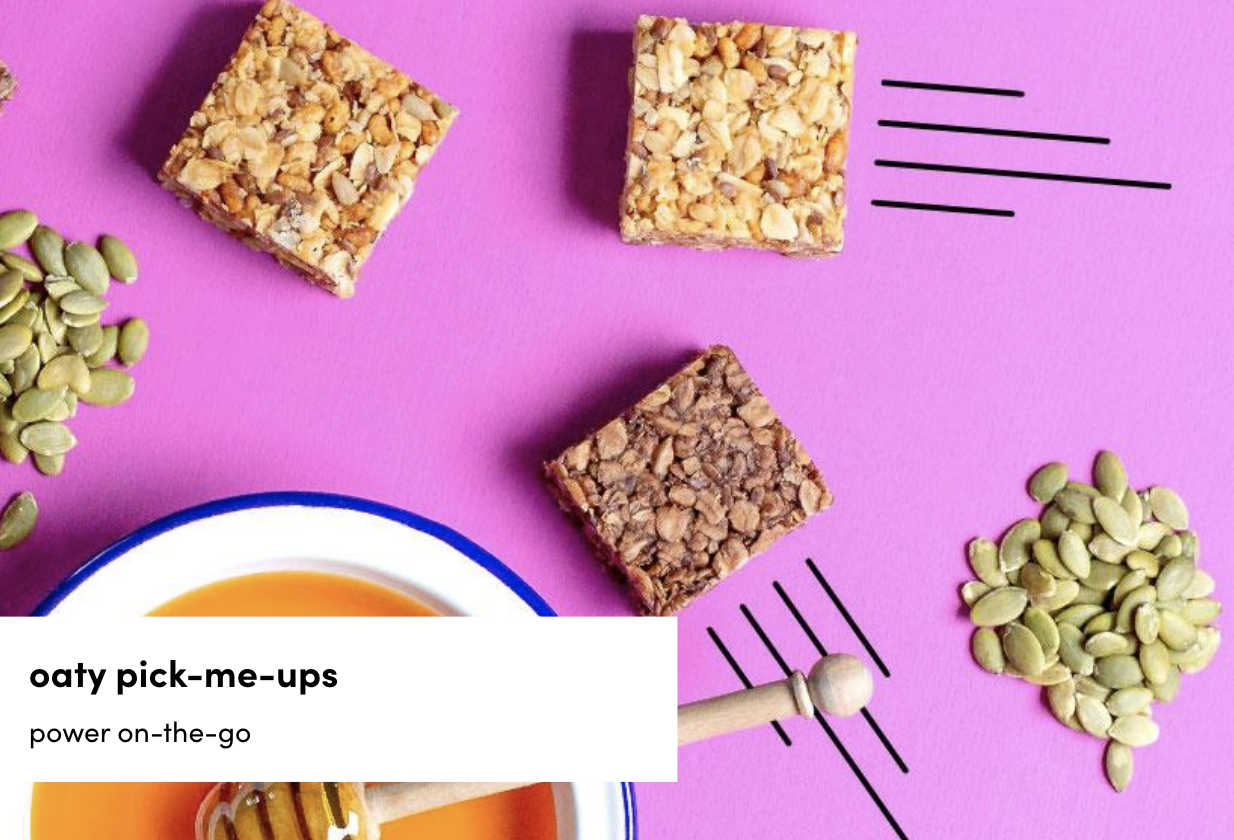
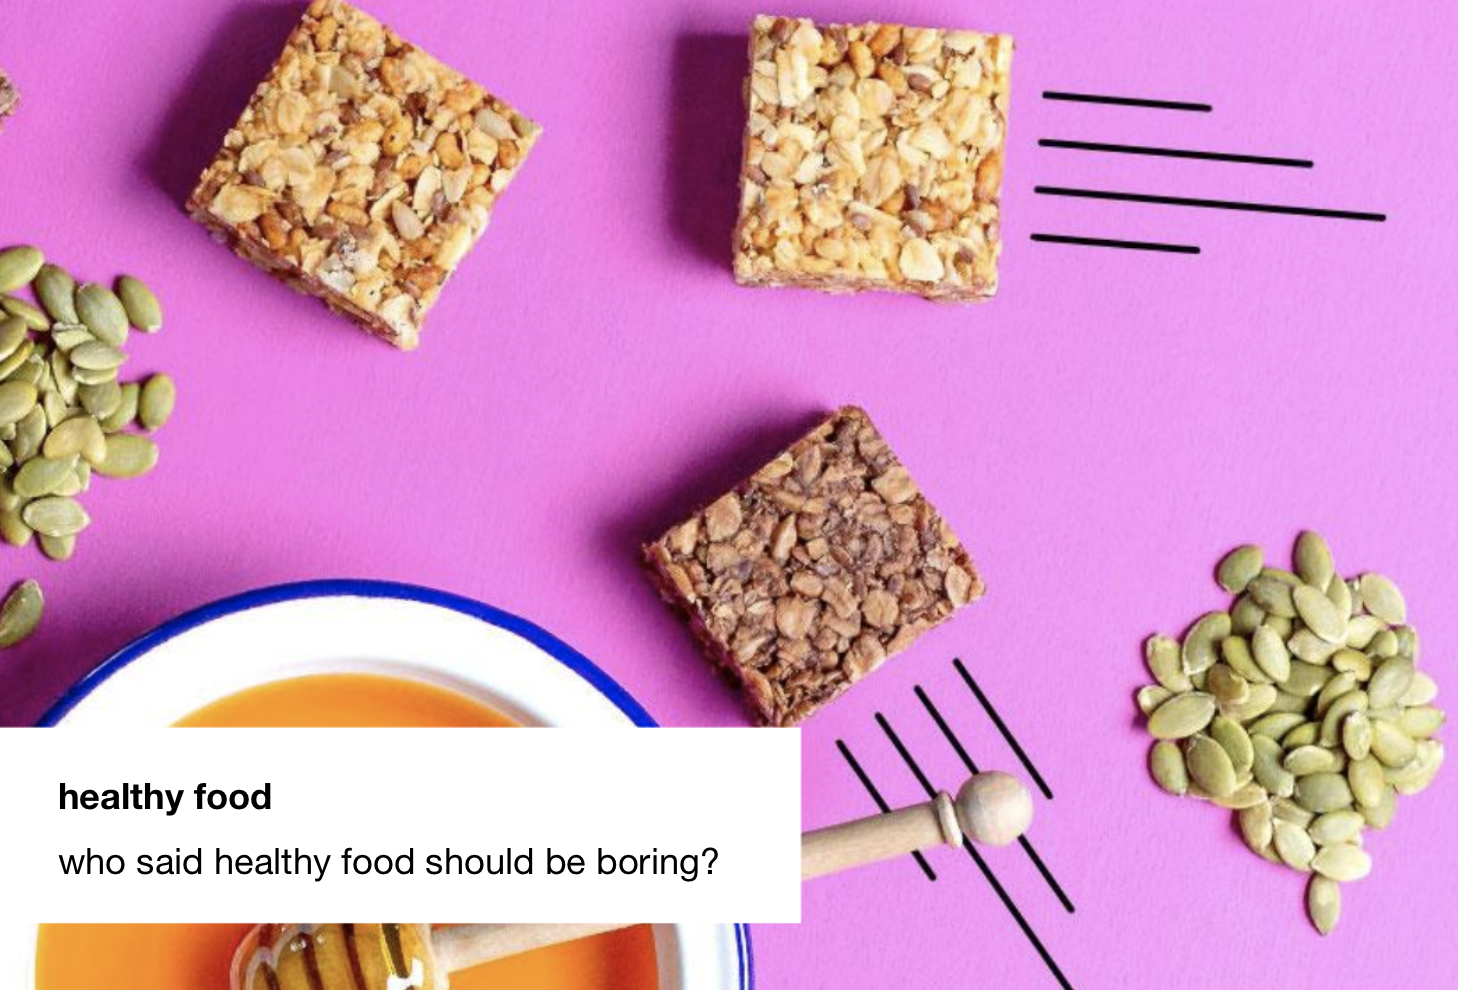
changed cat pics and dynamic border

diff --git a/RedApron/RedApronAngular/src/app/browse/category-main/category-main.component.ts b/RedApron/RedApronAngular/src/app/browse/category-main/category-main.component.ts
@@ -17,33 +17,43 @@ export class CategoryMainComponent implements OnInit {
   recipeNums: number[] = [];
   recipes: Recipe[] = [];
   message:number
+  cat: string
 
 
   constructor(private categoryService: CategoryService, private recipeService: RecipeService,public sharingService: SharingServiceService) { }
 
   ngOnInit() {
     console.log("*********** PARENT MAIN : is not from child " + this.sharingService.getData().isGeneral )
-    if (this.sharingService.getData().isGeneral) { //IS GENERAL
       this.categoriesBrowsing = this.sharingService.getData().categories
       var temp = this.categoriesBrowsing[0].name.split(" ")[0]
       if (temp == "Healthy") {
         this.categoryBrowsing = "Healthy"
+        this.cat = "cat1.png"
       } else if (temp == "Quick") {
         this.categoryBrowsing = "Quick & Easy"
+        this.cat = "cat2.png"
       }else if (temp == "Vegetarian") {
         this.categoryBrowsing = "Vegetarian"
+        this.cat = "cat3.png"
       }else if (temp == "Baking") {
         this.categoryBrowsing = "Baking"
+        this.cat = "cat4.png"
+
       }else if (temp == "Signature") {
         this.categoryBrowsing = "Signature"
+        this.cat = "cat5.png"
+
       }else if (temp == "Seasonal") {
         this.categoryBrowsing = "Seasonal Specials"
+        this.cat = "cat6.png"
+
       }
+      console.log(this.cat)
       for (let cat of this.categoriesBrowsing) {
         console.log("cat Id browsing : " + cat.categoryId)
         this.retrieveRecipesForCategory(cat.categoryId);
       }
-    }
+    
 
   }
 

diff --git a/RedApron/RedApronAngular/src/app/browse/category-main/category-main.component.html b/RedApron/RedApronAngular/src/app/browse/category-main/category-main.component.html
@@ -1,6 +1,6 @@
 <header>
   <div>
-    <img alt="Card image cap" class="card-img-top img-fluid" src="../../../../assets/images/categoryMainHeader.png" />
+    <img alt="Card image cap" class="card-img-top img-fluid" src='../../../../assets/images/{{cat}}' />
   </div>
   <!-- <button type="button" class="btn btn-info btn-lg">Subscribe <i class="fa fa-plus-circle"></i></button> -->
 </header>
